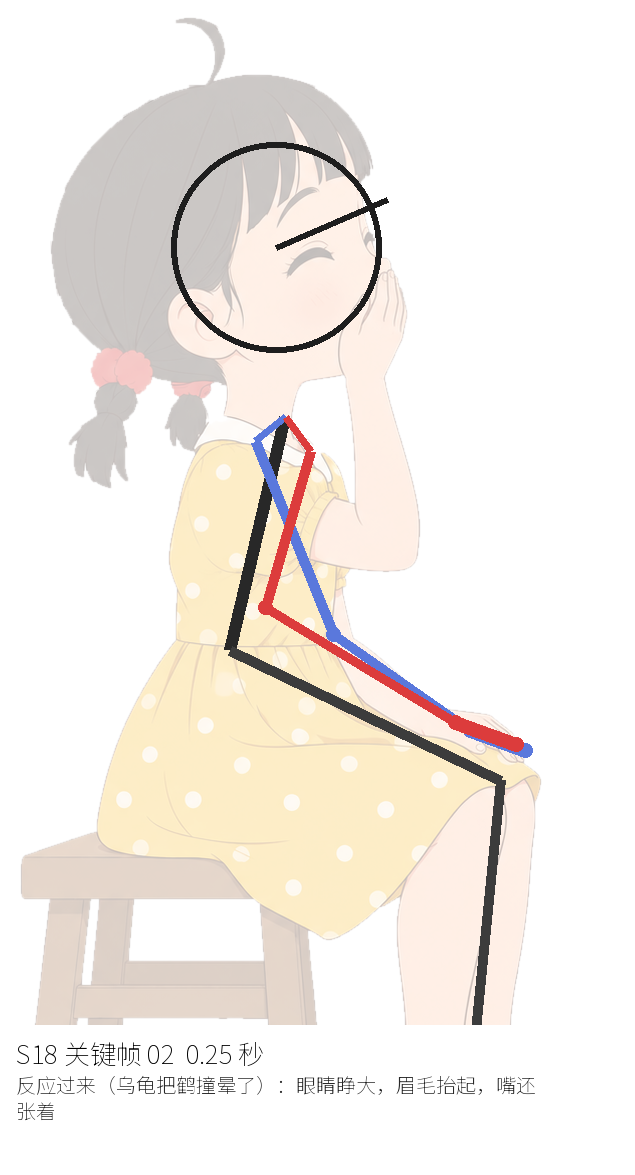
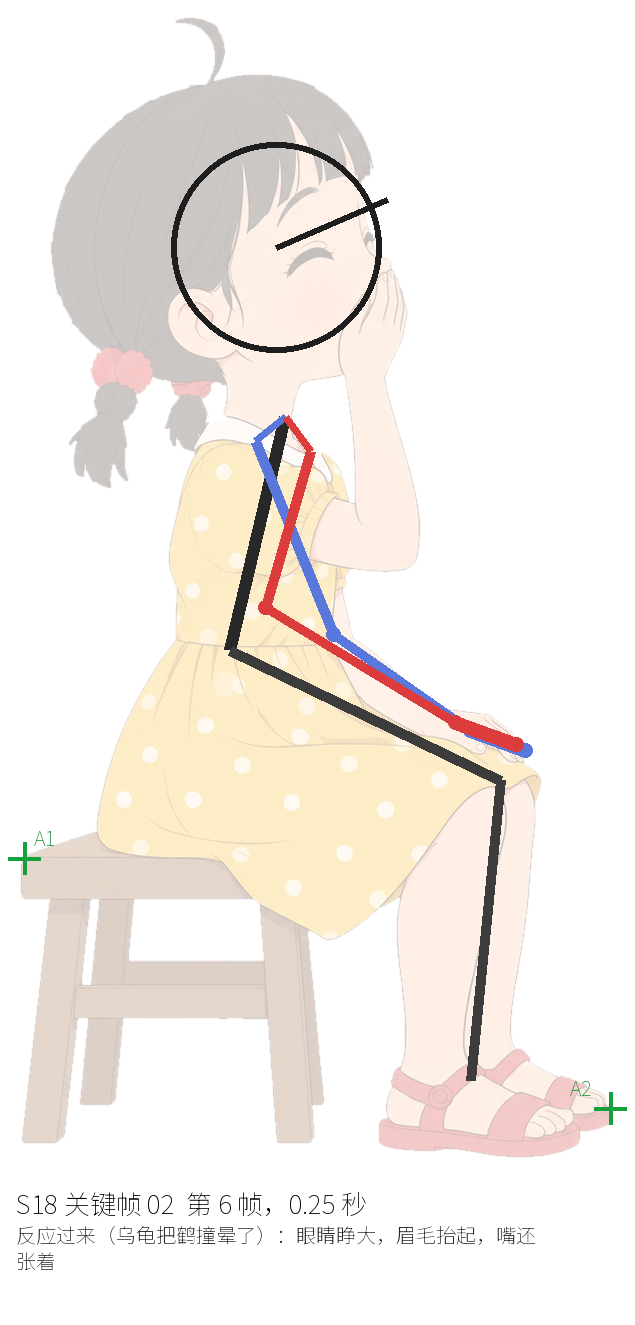
S18 关键帧：12 张定稿，帧号对齐 24fps，"噗"跟母带琵琶音（第 14 帧）；定位点改用凳面角和凉鞋尖；动作计划 S31 改回开镜已亮
Claude-Session: https://claude.ai/code/session_018izVeBsCAWYGJUmZwpX2YC

diff --git a/js/lamp/shots/s18.js b/js/lamp/shots/s18.js
@@ -1,5 +1,5 @@
 // S18 · 第 7 场：小满"噗"地笑出声，捂住嘴。镜头推近到她（床单正面这一侧），床单上还是 S17 结尾：鹤晕乎乎地缓过来，乌龟探出头偷笑。
-// 前 0.42 秒她还是"看呆了"（松开胳膊、张着嘴，xm_rig 的 B）；"噗"——换成合作方画的捂嘴笑（anim_18，和 B 同一个裁切框、逐像素对齐），
+// 前 0.58 秒她还是"看呆了"（松开胳膊、张着嘴，xm_rig 的 B）；"噗"——换成合作方画的捂嘴笑（anim_18，和 B 同一个裁切框、逐像素对齐），
 // 肩膀一耸，然后笑得一颤一颤，慢慢收住。
 import { makeShot } from './shotkit.js';
 import { sheet as sheet17 } from './s17.js';
@@ -10,7 +10,7 @@ import { loadFlip, frameAt, flipMaps } from '../../rig/flipbook.js';
 let FLIP;
 async function flip() { if (FLIP === undefined) { try { FLIP = await loadFlip('x18_laugh'); } catch { FLIP = null; } } return FLIP; }
 export const DURATION = 3;
-const T_PU = 0.42;                                     // "噗"
+const T_PU = 0.58;                                     // "噗"：母带琵琶音在 0.60 秒（audio/build.py），画面早一帧；逐帧版第 14 帧同此
 const CAM = { pos: [1.05, -2.70, 0.55], target: [0.42, -1.2, 0.70], hfov: 40 };
 let LAUGH = null;
 const sstep = (a, b, x) => { const u = Math.min(1, Math.max(0, (x - a) / (b - a))); return u * u * (3 - 2 * u); };

diff --git a/tools/keyframe_refs.py b/tools/keyframe_refs.py
@@ -52,7 +52,7 @@ for k, kf in enumerate(spec['keys'], 1):
             hd = math.radians(kf.get(f'hand_deg_{s}', 0))
             J[f'hd_{s}'] = (wr[0] + l3 * math.cos(hd), wr[1] + l3 * math.sin(hd))
     # 画：淡化的母版 + 骨架
-    img = Image.new('RGBA', (W, H), (255, 255, 255, 255))
+    img = Image.new('RGBA', (W, H + 150), (255, 255, 255, 255))   # 文字条放在图下面，不挡脚和凳子
     faded = master.copy(); faded.putalpha(faded.getchannel('A').point(lambda v: v * 0.28))
     img.alpha_composite(faded)
     d = ImageDraw.Draw(img)
@@ -66,15 +66,19 @@ for k, kf in enumerate(spec['keys'], 1):
     r = spec['head_r']; c = J['head']
     d.ellipse([c[0] - r, c[1] - r, c[0] + r, c[1] + r], outline=(30, 30, 30), width=6)
     d.line([c, (c[0] + r * 1.15 * math.cos(nose_dir), c[1] + r * 1.15 * math.sin(nose_dir))], fill=(30, 30, 30), width=6)   # 鼻子朝向
-    d.rectangle([0, H - 150, W, H], fill=(255, 255, 255, 230))
-    d.text((16, H - 142), f"{shot} 关键帧 {k:02d}  {kf['t']:.2f} 秒", font=font, fill=(0, 0, 0))
+    # 两个不动的定位点（绿色十字，每张关键帧都标在同样的地方）
+    for i, (ax, ay) in enumerate(spec.get('anchors', {}).get('points', []), 1):
+        d.line([(ax - 16, ay), (ax + 16, ay)], fill=(20, 160, 60), width=4); d.line([(ax, ay - 16), (ax, ay + 16)], fill=(20, 160, 60), width=4)
+        d.text((ax + 10 if ax < W - 60 else ax - 40, ay - 36), f'A{i}', font=small, fill=(20, 140, 50))
+    f = f"第 {kf['f']} 帧，" if 'f' in kf else ''
+    d.text((16, H + 8), f"{shot} 关键帧 {k:02d}  {f}{kf['t']:.2f} 秒", font=font, fill=(0, 0, 0))
     for i, line in enumerate([kf['note'][j:j + 26] for j in range(0, len(kf['note']), 26)][:4]):
-        d.text((16, H - 106 + i * 26), line, font=small, fill=(40, 40, 40))
+        d.text((16, H + 44 + i * 26), line, font=small, fill=(40, 40, 40))
     img.convert('RGB').save(out / f'k{k:02d}.png')
-    thumbs.append(img.convert('RGB').resize((W // 3, H // 3)))
+    thumbs.append(img.convert('RGB').resize((W // 3, (H + 150) // 3)))
 # 总览
-cols = 6; rows = math.ceil(len(thumbs) / cols)
-sheet = Image.new('RGB', (cols * (W // 3), rows * (H // 3)), 'white')
-for i, t in enumerate(thumbs): sheet.paste(t, ((i % cols) * (W // 3), (i // cols) * (H // 3)))
+cols = 6; rows = math.ceil(len(thumbs) / cols); tw, th = thumbs[0].size
+sheet = Image.new('RGB', (cols * tw, rows * th), 'white')
+for i, t in enumerate(thumbs): sheet.paste(t, ((i % cols) * tw, (i // cols) * th))
 sheet.save(out / 'sheet.jpg', quality=88)
 print(out, len(thumbs))

diff --git a/docs/motion-plan.md b/docs/motion-plan.md
@@ -2,14 +2,14 @@
 
 > **2026-10-17 用户决定：** 骨架变形样例"不行"，改为 **Astra 逐帧出关键帧**（生图画出一串关键帧，24fps 一拍三、停顿处停更久），
 > 代码只做合成、光照和镜头（`js/rig/flipbook.js`）。先做 S18 三秒试点，用户认可后再按下面的单子逐镜生成。
-> 关键帧要求：和母版同画幅同裁切、同角色同衣服，只改动作和表情；纯灰底平光；每张标两个不动的定位点。
+> 关键帧要求：和母版同画幅同裁切、同角色同衣服，只改动作和表情；纯灰底平光；每张标两个不动的定位点（凳子、脚这类整段不动的东西，不能用领口、后脑、手）。
 > 下面"张数"按一拍三估，停顿多的镜头张数少。
 
 ## 关键帧单（试点通过后生成）
 
 | 镜头 | 时长 | 母版 | 约张数 | 关键帧 |
 |---|---|---|---|---|
-| **S18（试点）** | 3 | x18_laugh | 11 | 见 `collab/claude.md` 09:35 |
+| **S18（试点）** | 3 | x18_laugh | 12 | `docs/keyframes/S18.json`（帧号、时间表、定位点），骨架参考图 `renders/keyframes/S18/`；"噗"在第 14 帧（0.58 秒，母带琵琶音 0.60） |
 | S01 | 12 | x01_prone_phone、g01_beans | 小满 8 + 奶奶 8（循环） | 小满：两拇指点按两种（按下/抬起），头随游戏点、小腿交替晃 4 张循环；奶奶：剥豆一个循环（拿荚—掰开—挤豆—扔荚）4 张、抬眼看小满 2 张、眨眼 1 张 |
 | S03 | 6 | g03_watermelon | 10 | 剥豆 2 → 抬眼看小满 → 把西瓜往前递 → 停住 → 收回 → 咬一口（嘴张、咬、嚼两张） |
 | S04 | 8 | 同 S01 | 4 | 奶奶停手抬头 2 张、小满手机照脸急按 2 张（新增光照由程序） |
@@ -27,7 +27,7 @@
 | S28 | 8 | g10_squint | 4 | 灯一亮往后一缩 → 眯眼 → 抬手挡 → 放下 |
 | S29 | 12 | g29、x29 A/B | 奶奶 8 + 小满 6 | 奶奶折布包皮影（4 张循环）→ 准备吹灯；小满看手机 → 抬头看奶奶 → 又看手机 → 再看奶奶（眨眼、微笑） |
 | S30 | 12 | x30_pull_cord | 8 | 走到门边（2 张循环）→ 踮脚 → 伸手 → 握绳 → 往下一拽 → 松手落跟 |
-| S31 | 14 | x31_flashlight_face | 8 | 推亮手电 → 鬼脸（吐舌、眼睛瞪）→ 头左右晃 2 → 举乌龟晃 2 → 笑 |
+| S31 | 14 | x31_flashlight_face | 8 | 开镜手电已经亮着（不再有推开关的动作和咔哒声）→ 鬼脸（吐舌、眼睛瞪）→ 头左右晃 2 → 举乌龟晃 2 → 笑 |
 
 ## 通用动作要求（每个出人的镜头都要有；逐帧版同样适用）
 
@@ -54,7 +54,7 @@
 | S13 | x13_*（A/B 头） | A | A | 盯着看（身体前倾、眼睛跟着鹤）→ 发现奶奶看她（眨眼、头一偏）→ 装打哈欠（嘴张开 → 手捂）→ 扭开头 |
 | S14 | g14_hang_sheet、小满拖凳 | A | A | 奶奶两手举床单搭上铁丝、夹衣夹（2.5、3.2、3.9）；小满拖凳（6.5）坐下（7.8）抱起胳膊（8.5） |
 | S15 | x16 三态 | A | O | 抱臂看床单 → 鹤贴近时身子前倾、下巴抬起、嘴慢慢张开 → 松开胳膊（换图藏在眨眼）→ 手搭膝、手指不自觉地动 |
-| S18 | x18_laugh | A | O | "噗"一下肩膀耸起 → 捂嘴，肩膀一抖一抖，眼睛笑弯 |
+| S18 | x18_laugh | A | O | "噗"（0.58）一下肩膀耸起 → 捂嘴，肩膀一抖一抖，眼睛笑弯 |
 | S20 | x20_puppeteer、g20_puppeteer、g20_laugh | A | O | 小满两手握签跟着乌龟乱晃（手腕、肘、肩连续），签子从拳心接出；奶奶稳稳操鹤，笑时捂肚子、肩膀抖 |
 | S22 | h22_together | A | O | 奶奶的手握着小满的手，一步一停地往前送（手腕、指节动） |
 | S24 | x24_smug | A | O | 回头（头和肩分两拍转过来）→ 下巴一扬、眉毛一挑 |
@@ -62,7 +62,7 @@
 | S28 | g10_squint | A | A | 灯一亮往后一缩，眯眼，抬手挡（若图不允许，只做缩头和眯眼） |
 | S29 | g29_wrap、x29_look A/B | A | A | 奶奶一层层折布包皮影；小满看手机（亮屏）→ 抬头看奶奶 |
 | S30 | x30_pull_cord | A | A | 走到门边 → 踮脚、伸手、握绳 → 往下一拽（5.95）→ 松手落跟 |
-| S31 | x31_flashlight_face | A | A | 推亮手电（0.6）→ 吐舌头鬼脸，头左右晃；举乌龟的手晃动，签子跟着手走 |
+| S31 | x31_flashlight_face | A | A | 开镜手电已亮（现行实现，母带无咔哒声）→ 吐舌头鬼脸，头左右晃；举乌龟的手晃动，签子跟着手走 |
 
 ## 床单戏里的皮影
 

diff --git a/collab/claude.md b/collab/claude.md
@@ -872,3 +872,33 @@ S02、S05 的手机特写我用代码画了手（`renders/checkpoint2/s02_phone_
 **请生图时把对应的骨架参考图一起作为参考输入**（工具能接受参考图 / 编辑底图就用；不能的话至少按它核对），审查也按它核对：关节位置、头的朝向、手的位置有没有偏。关键帧 8、9 是肩膀上下抖的 A/B，其余同前一条留言。骨架只管姿势，脸、头发、衣服照母版不变。
 
 以后每个镜头的关键帧单都会先出骨架参考图再交给你们。
+
+
+## 2026-10-17 10:20 UTC · 回 932a5f4：S18 定为 12 张、帧号和"噗"对齐母带、定位点改用凳子和凉鞋；S31 计划已改回
+
+三处你指出的问题都认，已改：
+
+**1. S18 是 12 张不同的图。** 我前面写"11 张"是错的，以 `docs/keyframes/S18.json` 的 12 个状态为准：`x18_f01.png` … `x18_f12.png`。8、9（肩膀落下 / 耸起）在时间表里交替三次，但它们本身是两张不同的图，不再省。
+
+**2. 时间对齐到整数帧，"噗"跟母带走。** 母带里"噗"的琵琶音在 `T('S18', 0.6)`（audio/build.py 322 行），不动它；画面早一帧：
+- 关键帧 04（"噗"）在第 14 帧 = 0.583 秒；
+- `s18.js` 的 T_PU 从 0.42 改为 0.58（只影响没有逐帧图时的旧退路）；
+- 12 张的帧号：0、6、11、14、17、21、24、27、30、46、55、62（24fps）；
+- 时间表（已写进 S18.json 的 `timeline`，可直接抄进 flip.json）：
+  `[[0,0],[0.25,1],[0.458,2],[0.583,3],[0.708,4],[0.875,5],[1.0,6],[1.125,7],[1.25,8],[1.375,7],[1.5,8],[1.625,7],[1.75,8],[1.917,9],[2.292,10],[2.583,11]]`
+  （序号从 0 起；第 27～44 帧是 A、B 一拍三交替三次）。
+
+**3. 定位点改用整段不动的东西。** 领口和后脑会随耸肩、转头移动，不能用。新的两个点：
+- A1 = 凳面左上角，母版坐标约 [24, 858]；
+- A2 = 右边那只凉鞋鞋尖最右点，约 [610, 1108]。
+
+S18 里凳子和脚都不动，两点相距约 640 像素，配准精度够。骨架参考图已重生成，两个点用绿色十字标出；文字条挪到图下方，不再挡住脚和凳子。
+
+**4. S31 计划已改回现行实现。** `docs/motion-plan.md` 两处都改成"开镜手电已亮，不再有推开关的动作和咔哒声"，以现在的 s31 代码和母带为准。
+
+**交付格式不变：**
+- 12 张原件 PNG，放 `collab/refs/x18_f01.png` … `x18_f12.png`，和母版同为 635×1175；
+- 每张 A1、A2 的实测坐标（JSON）；
+- 生成方式记录和你们的独审。
+
+收到后我跑 `tools/prep_flip.py`，写 `assets/flips/x18_laugh.flip.json`，出 24fps 带剧本字幕的试片。如果你们已经开始生成，按旧时间生成的图不用重做——12 个状态没变，只是帧号和定位点变了；定位点按新的两个点实测就行。
